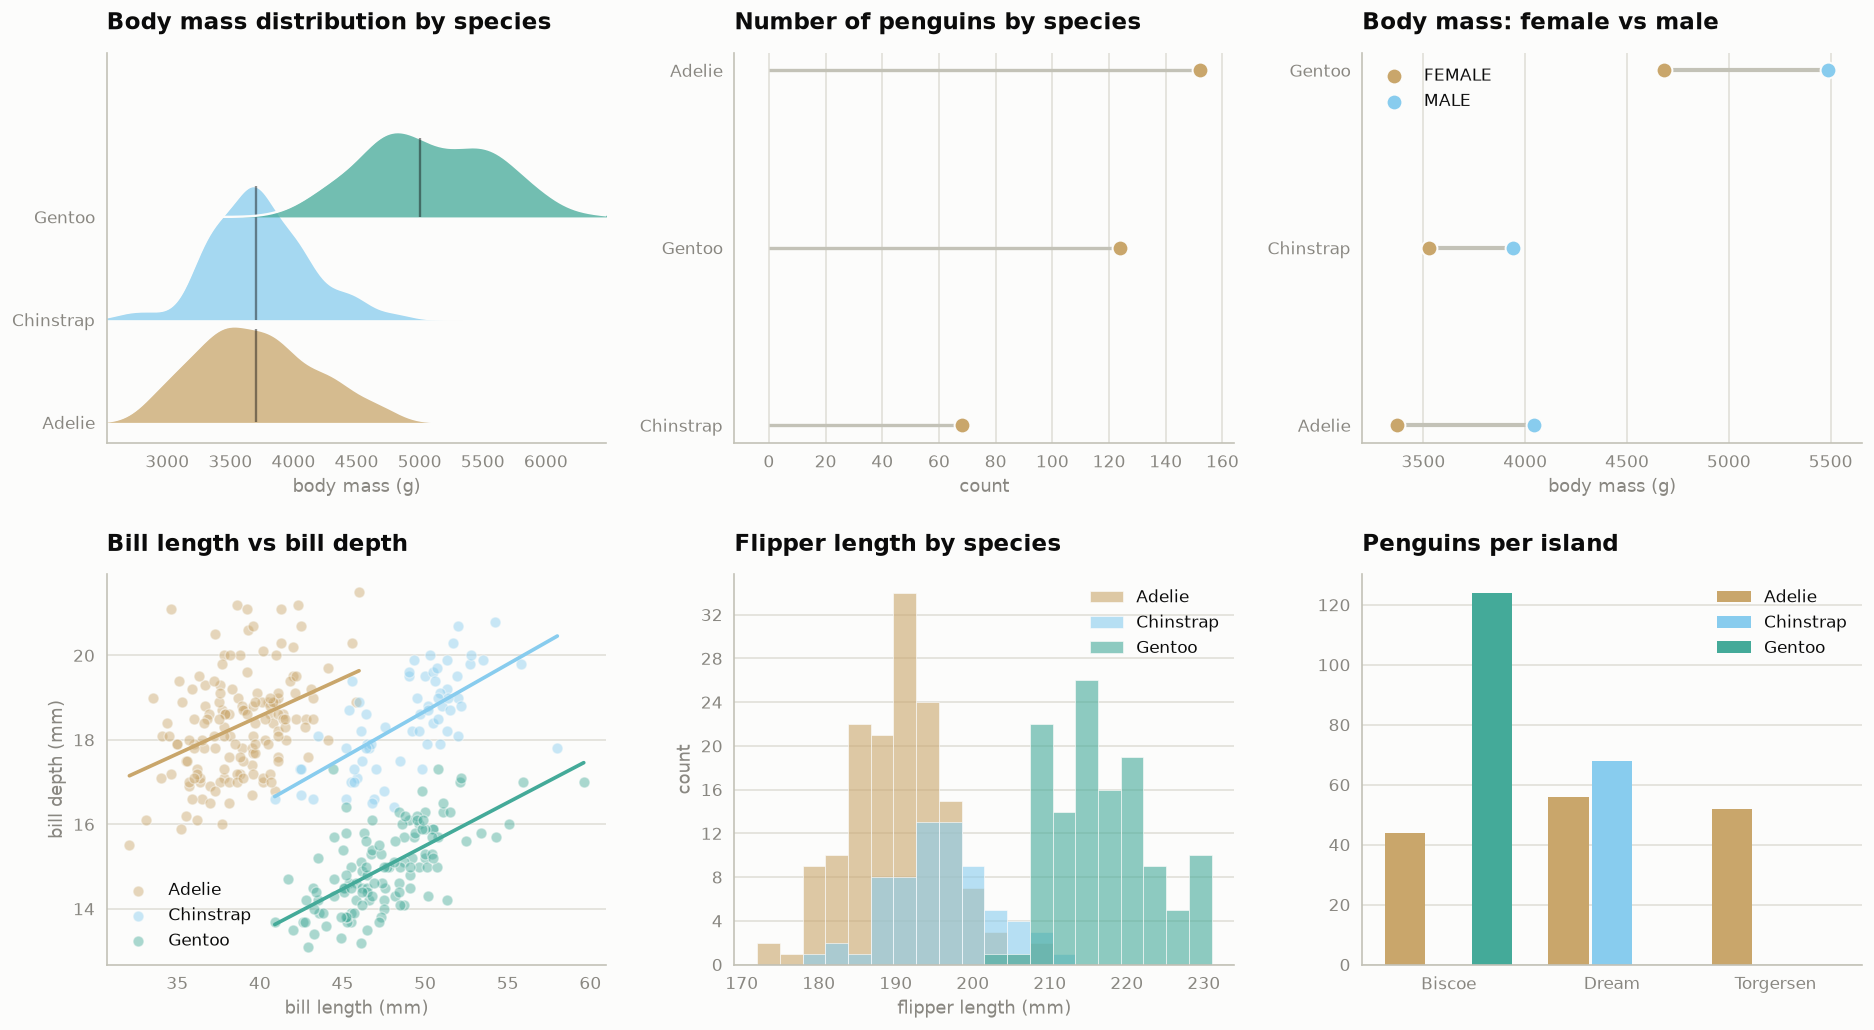
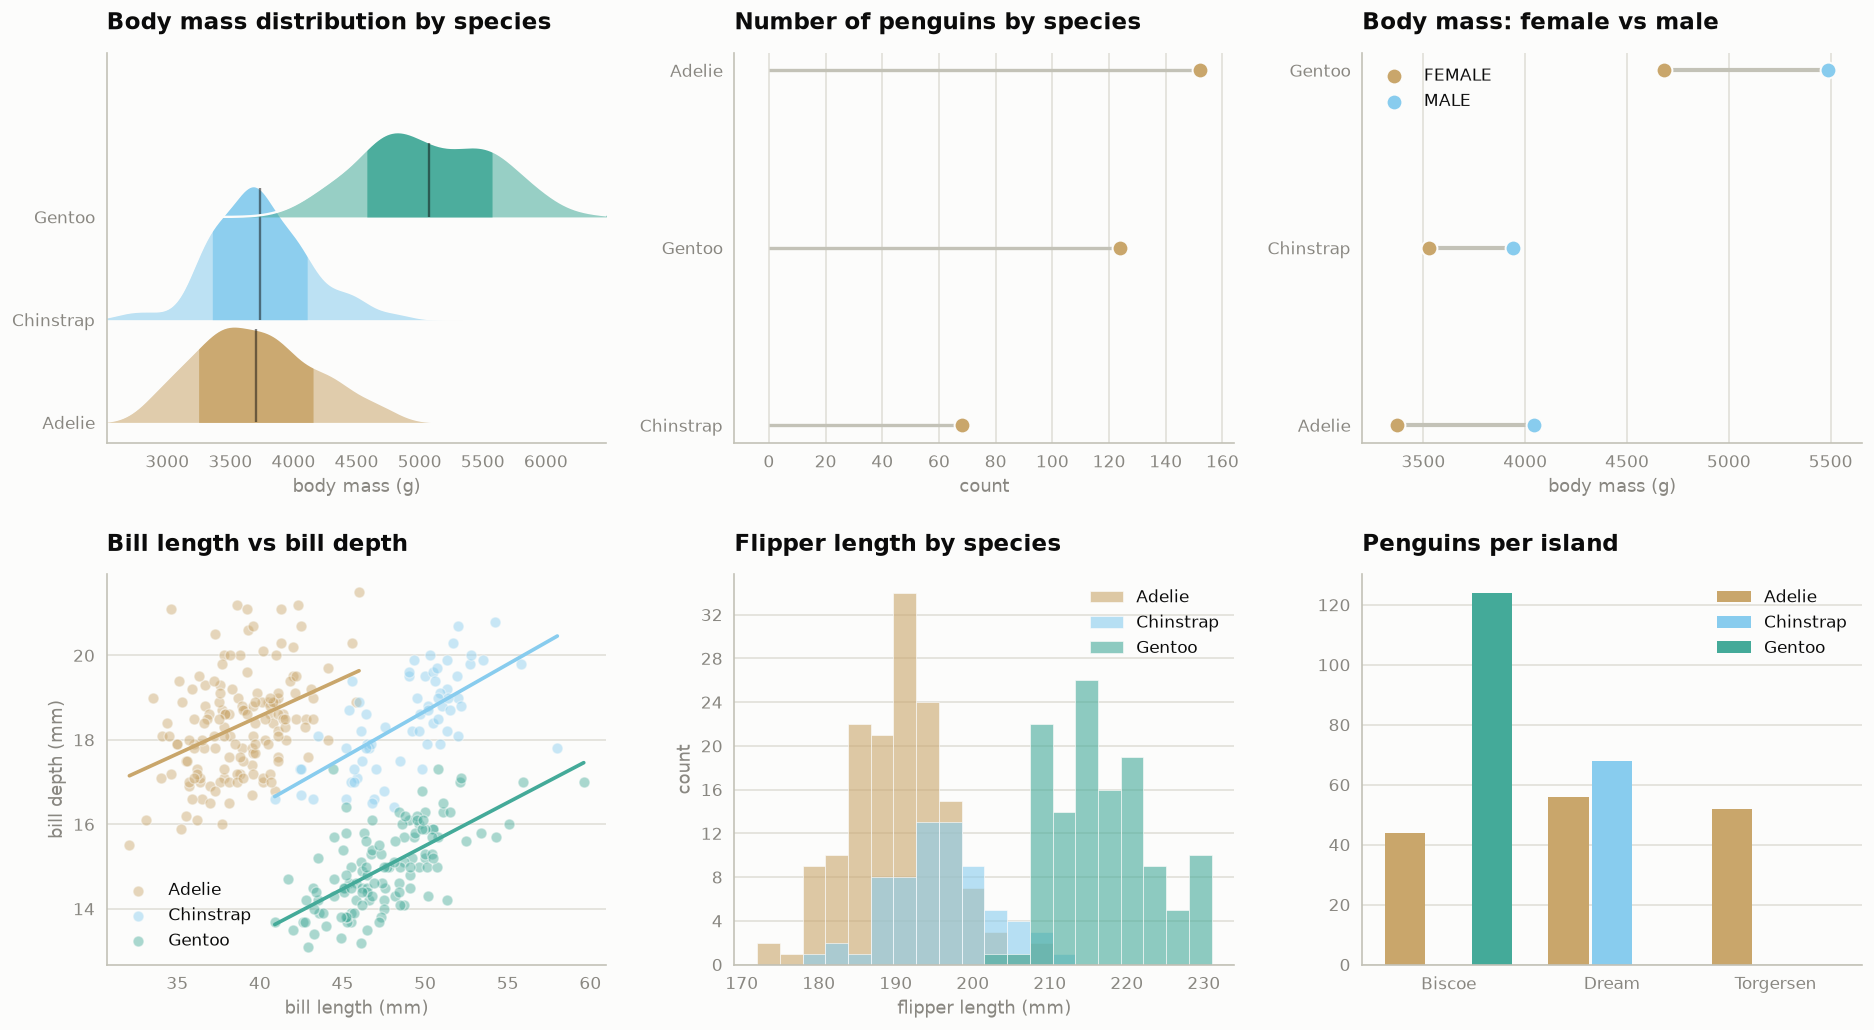
Add spread band to ridgeline; mean +/-1 SD in the gallery
Generalise the ridgeline centre marker into center= ("median" default, "mean",
or None) and add band= to shade each ridge's central spread: "sd" for
mean +/-1 standard deviation or "iqr" for the interquartile range. The base
fill lightens when a band is shown so the core stands out. Use center="mean",
band="sd" on the gallery's body-mass ridgeline and update the README.

Claude-Session: https://claude.ai/code/session_011z8vY9Dm6rRXsFqaSvsfSk

Changed region(s): [[0.0619, 0.1243, 0.3095, 0.435]]

diff --git a/src/simple_eda/core.py b/src/simple_eda/core.py
@@ -283,17 +283,46 @@ def _kde(x, grid):
     return np.exp(-0.5 * u ** 2).sum(axis=1) / (n * bw * np.sqrt(2 * np.pi))
 
 
-def ridgeline(data, value, group, median=True, title=None, xlabel=None,
-              overlap=1.3, ax=None):
+def _center_value(v, center):
+    """Return the requested centre statistic for a value array."""
+    if center == "mean":
+        return np.nanmean(v)
+    if center == "median":
+        return np.nanmedian(v)
+    return None
+
+
+def _band_bounds(v, band):
+    """Return the (low, high) x-bounds of a spread band, or None."""
+    if band == "sd":
+        m, s = np.nanmean(v), np.nanstd(v)
+        return m - s, m + s
+    if band == "iqr":
+        return tuple(np.nanpercentile(v, [25, 75]))
+    return None
+
+
+def ridgeline(data, value, group, center="median", band=None, title=None,
+              xlabel=None, overlap=1.3, ax=None):
     """Ridgeline plot — one smoothed distribution per group, gently overlapped.
 
     Great for comparing the *shape* of a numeric variable across categories.
     ``value`` is the numeric column and ``group`` the categorical column.
     Groups are ordered by their median so the ridges climb; ``overlap`` sets
-    how far adjacent ridges intrude on each other (1.0 = just touching). With
-    ``median=True`` a thin marker is drawn at each group's median so their
-    centres line up for easy comparison.
+    how far adjacent ridges intrude on each other (1.0 = just touching).
+
+    ``center`` draws a thin marker at each group's ``"median"`` (default),
+    ``"mean"``, or ``None`` for no marker. ``band`` shades the central spread
+    of each ridge: ``"sd"`` for mean ±1 standard deviation, ``"iqr"`` for the
+    interquartile range, or ``None`` (default) for no band. Pair ``"sd"`` with
+    ``center="mean"`` and ``"iqr"`` with ``center="median"`` so the marker and
+    the shaded band describe the same centre.
     """
+    if center not in (None, "mean", "median"):
+        raise ValueError("center must be None, 'mean' or 'median'")
+    if band not in (None, "sd", "iqr"):
+        raise ValueError("band must be None, 'sd' or 'iqr'")
+
     vals = data[value].astype(float)
     order = (data.groupby(group)[value].median().sort_values().index.tolist())
     lo, hi = np.nanmin(vals), np.nanmax(vals)
@@ -304,6 +333,7 @@ def ridgeline(data, value, group, median=True, title=None, xlabel=None,
                  for g in order}
     peak = max((d.max() for d in densities.values()), default=1.0) or 1.0
     scale = overlap / peak
+    base_alpha = 0.55 if band else 0.75
 
     ax = _new_ax(ax, figsize=(8, 0.9 * len(order) + 2))
     ax.grid(visible=False)
@@ -312,15 +342,21 @@ def ridgeline(data, value, group, median=True, title=None, xlabel=None,
     # Draw back-to-front so lower ridges overlap those behind them.
     for i in reversed(range(len(order))):
         g = order[i]
+        v = data.loc[data[group] == g, value].values
         curve = i + densities[g] * scale
         color = PALETTE[i % len(PALETTE)]
-        ax.fill_between(grid, i, curve, color=color, alpha=0.75, zorder=i,
+        ax.fill_between(grid, i, curve, color=color, alpha=base_alpha, zorder=i,
                         linewidth=0)
-        ax.plot(grid, curve, color=_SURFACE, linewidth=1.4, zorder=i)
-        if median:
-            med = np.nanmedian(data.loc[data[group] == g, value].values)
-            top = i + np.interp(med, grid, densities[g]) * scale
-            ax.vlines(med, i, top, color=_INK, alpha=0.45, linewidth=1.4,
+        bounds = _band_bounds(v, band)
+        if bounds is not None:
+            mask = (grid >= bounds[0]) & (grid <= bounds[1])
+            ax.fill_between(grid[mask], i, curve[mask], color=color, alpha=0.9,
+                            zorder=i + 0.2, linewidth=0)
+        ax.plot(grid, curve, color=_SURFACE, linewidth=1.4, zorder=i + 0.3)
+        cval = _center_value(v, center)
+        if cval is not None:
+            top = i + np.interp(cval, grid, densities[g]) * scale
+            ax.vlines(cval, i, top, color=_INK, alpha=0.5, linewidth=1.4,
                       zorder=i + 0.5)
     ax.set_ylim(-0.2, len(order) - 1 + overlap + 0.3)
     ax.margins(x=0)

diff --git a/examples/example.py b/examples/example.py
@@ -38,6 +38,7 @@ counts = (penguins.groupby(["island", "species"]).size()
 fig, axes = plt.subplots(2, 3, figsize=(16, 9))
 
 cv.ridgeline(penguins, value="body_mass_g", group="species",
+             center="mean", band="sd",
              title="Body mass distribution by species",
              xlabel="body mass (g)", ax=axes[0, 0])
 cv.lollipop(species_counts, title="Number of penguins by species",

diff --git a/README.md b/README.md
@@ -71,7 +71,7 @@ subplot. A legend is added automatically only when there is more than one series
 | `hist(data, column=None, by=None, bins=20, ...)` | Distribution of a column; `by=` overlays one translucent histogram per group | DataFrame / Series |
 | `lollipop(data, sort=True, ...)` | Ranked lollipop — a lighter `barh` | DataFrame / Series |
 | `dumbbell(data, sort=True, ...)` | Two dots + connector per row (A vs B) | 2-column DataFrame |
-| `ridgeline(data, value, group, median=True, overlap=1.3, ...)` | Overlapping distribution per group, with a median marker per ridge | DataFrame |
+| `ridgeline(data, value, group, center="median", band=None, overlap=1.3, ...)` | Overlapping distribution per group; `center` marks the mean/median, `band` shades ±1 SD or the IQR | DataFrame |
 
 Common keyword args: `title`, `xlabel`, `ylabel`, `ax`.
 
